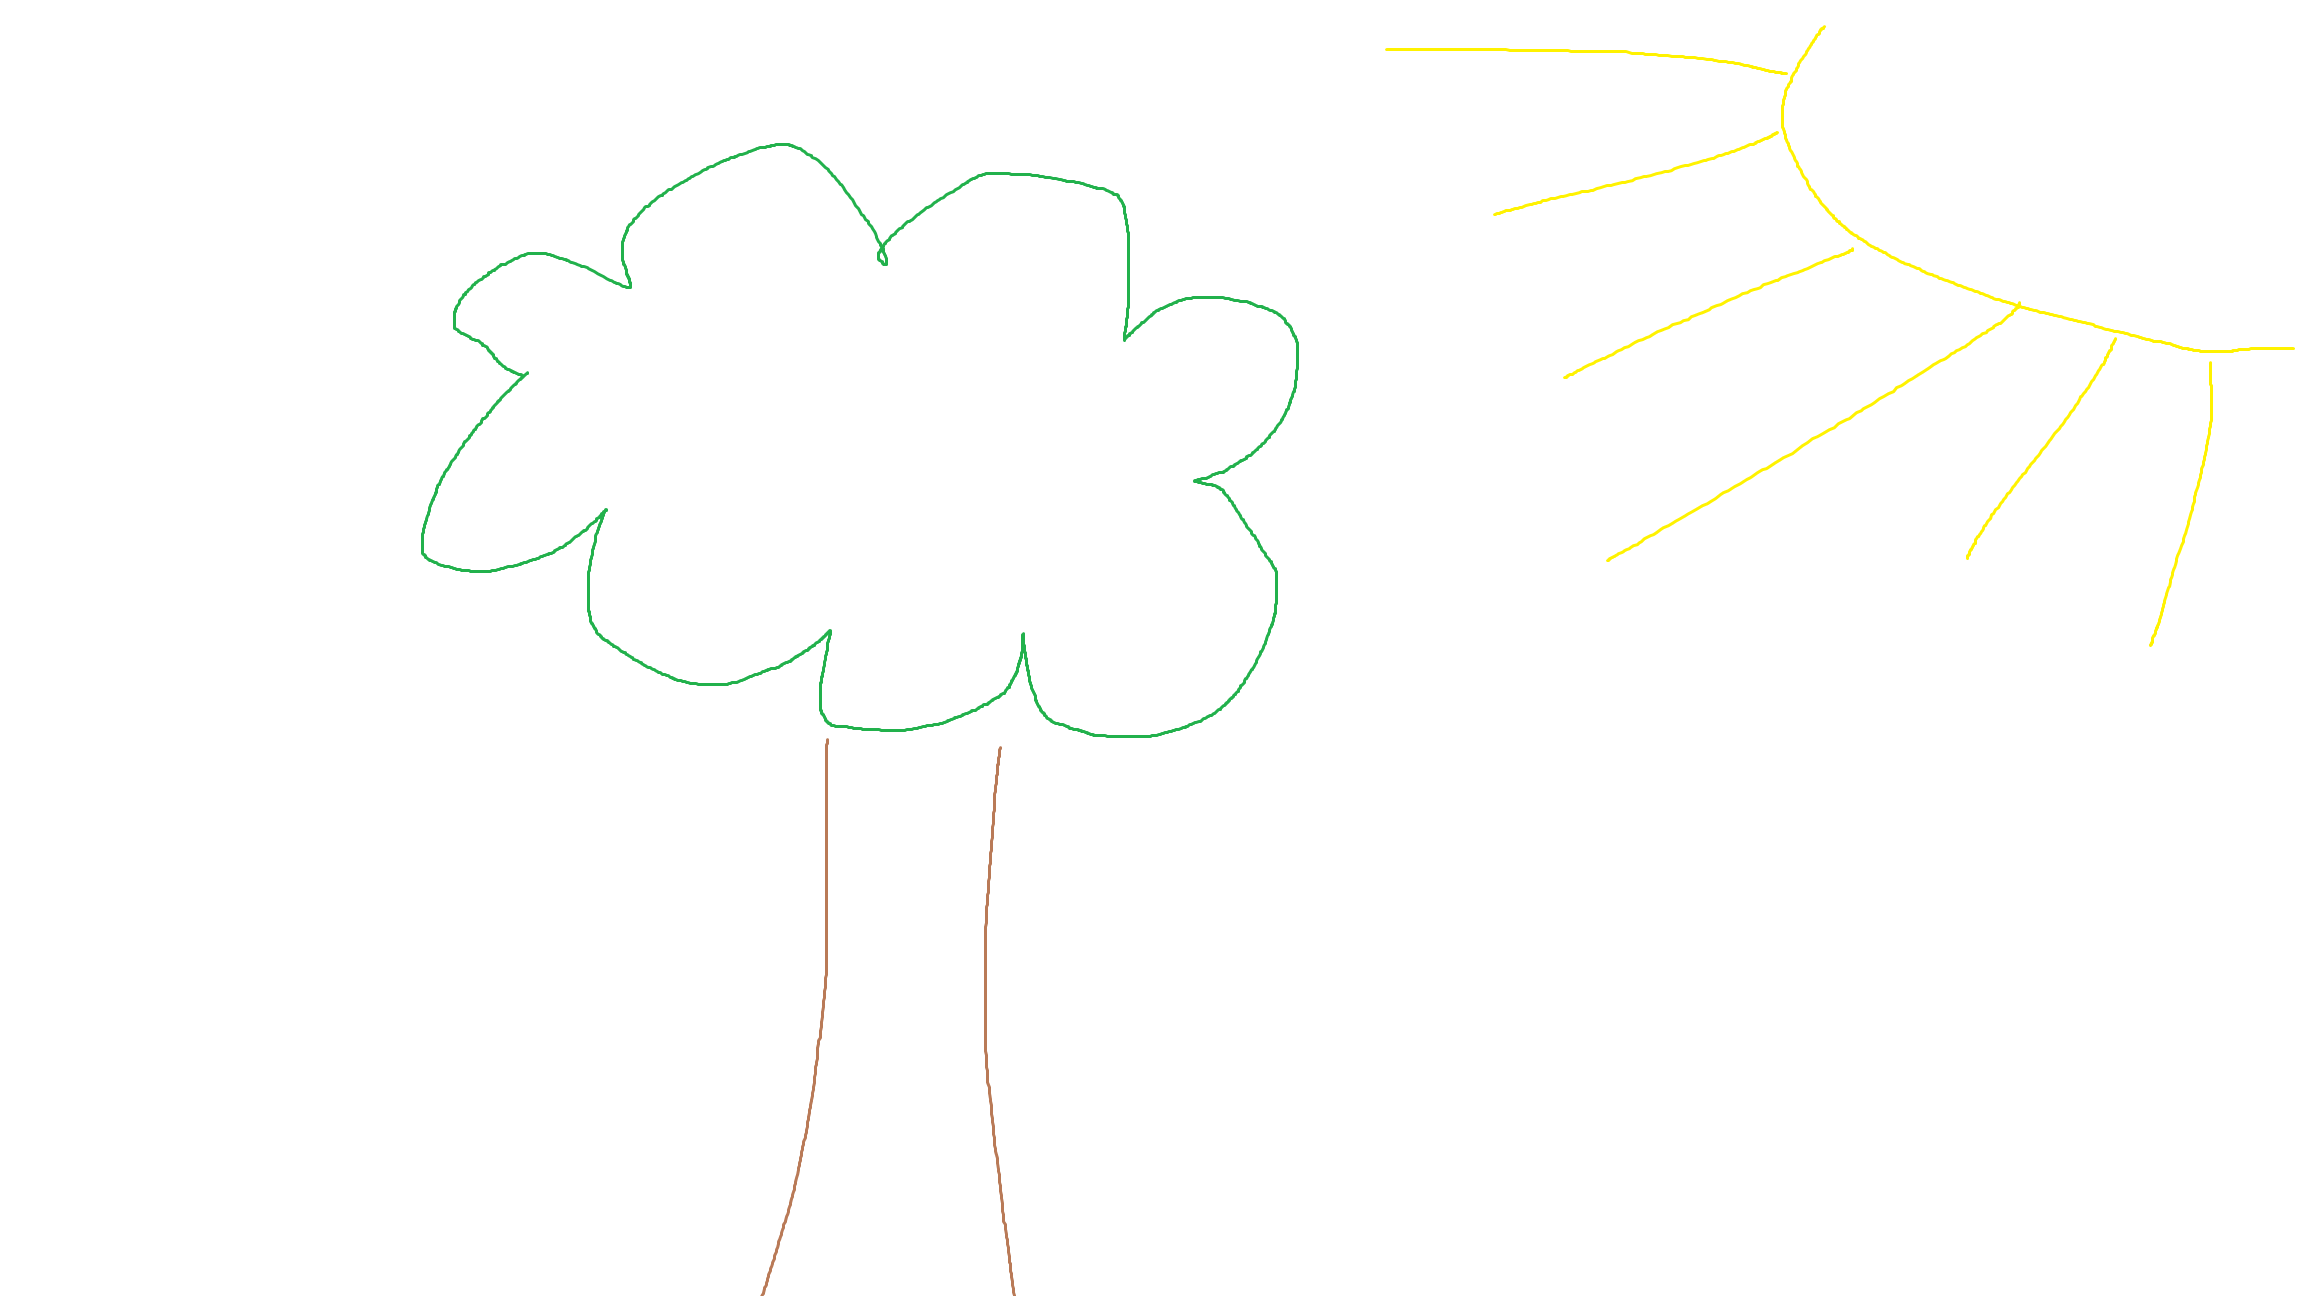
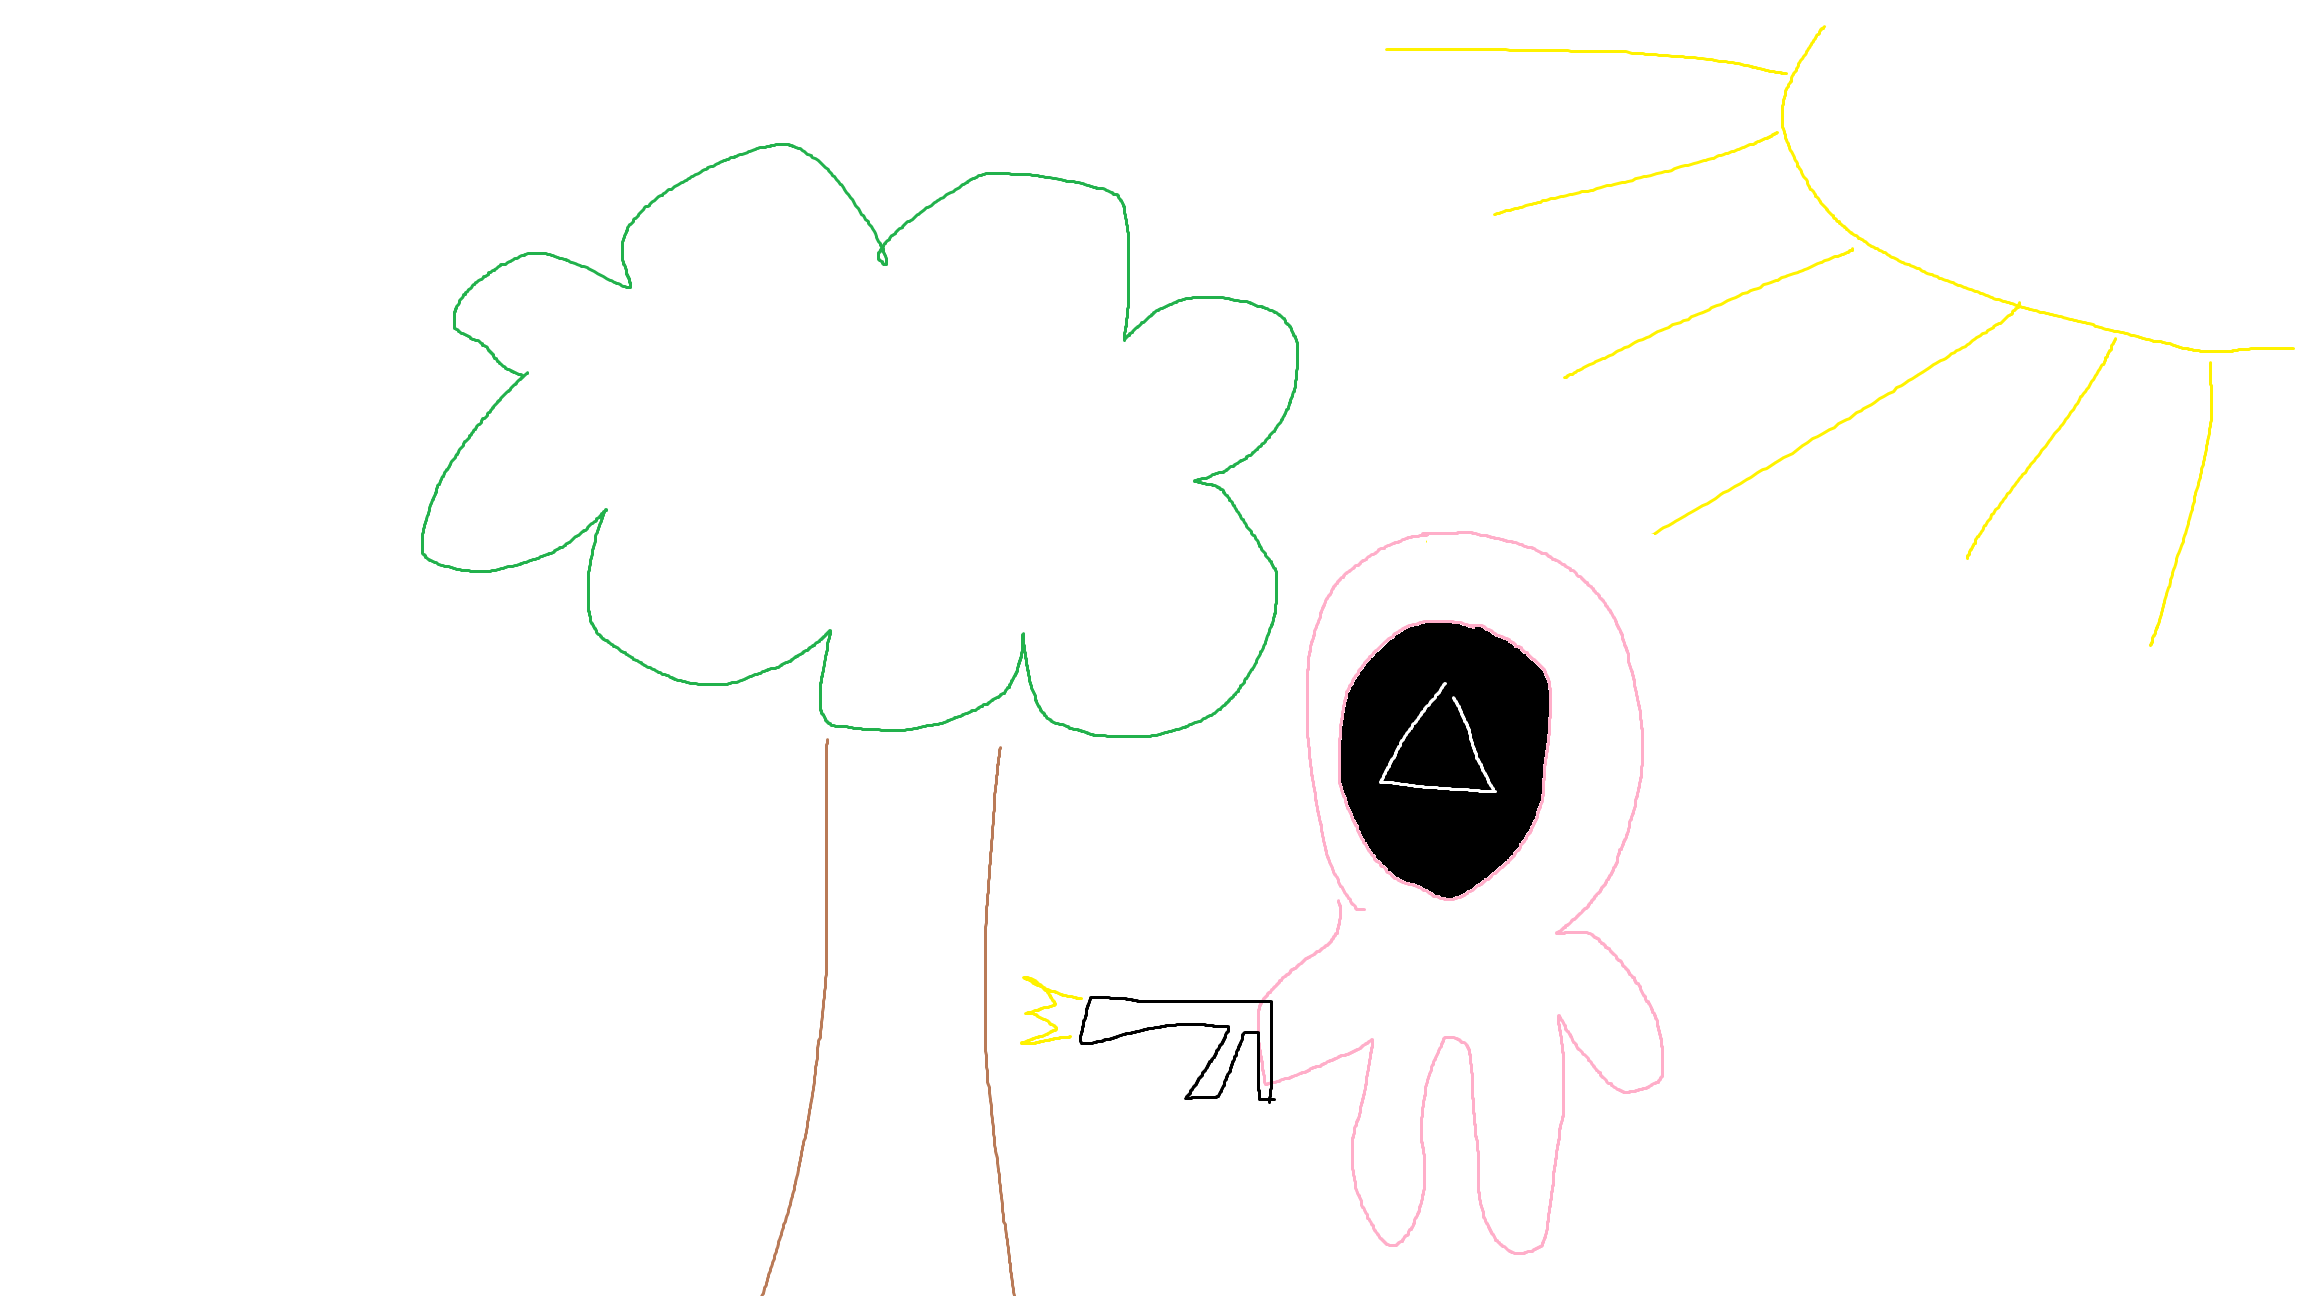
added squid dude

Changed region(s): [[0.5625, 0.463, 0.6875, 0.7099], [0.4375, 0.7407, 0.5938, 0.8333]]

diff --git a/index.html b/index.html
@@ -15,6 +15,11 @@
         <link rel="preconnect" href="https://fonts.gstatic.com" crossorigin>
         <link href="https://fonts.googleapis.com/css2?family=Open+Sans:wght@300&display=swap" rel="stylesheet">
 
+        <!--Roboto-->
+        <link rel="preconnect" href="https://fonts.googleapis.com">
+        <link rel="preconnect" href="https://fonts.gstatic.com" crossorigin>
+        <link href="https://fonts.googleapis.com/css2?family=Roboto:wght@300&display=swap" rel="stylesheet">
+
         <!---font awesome-->
         <script src="https://kit.fontawesome.com/a076d05399.js" crossorigin="anonymous"></script>
         <meta name="viewport" content="width=device-width, initial-scale=1">
